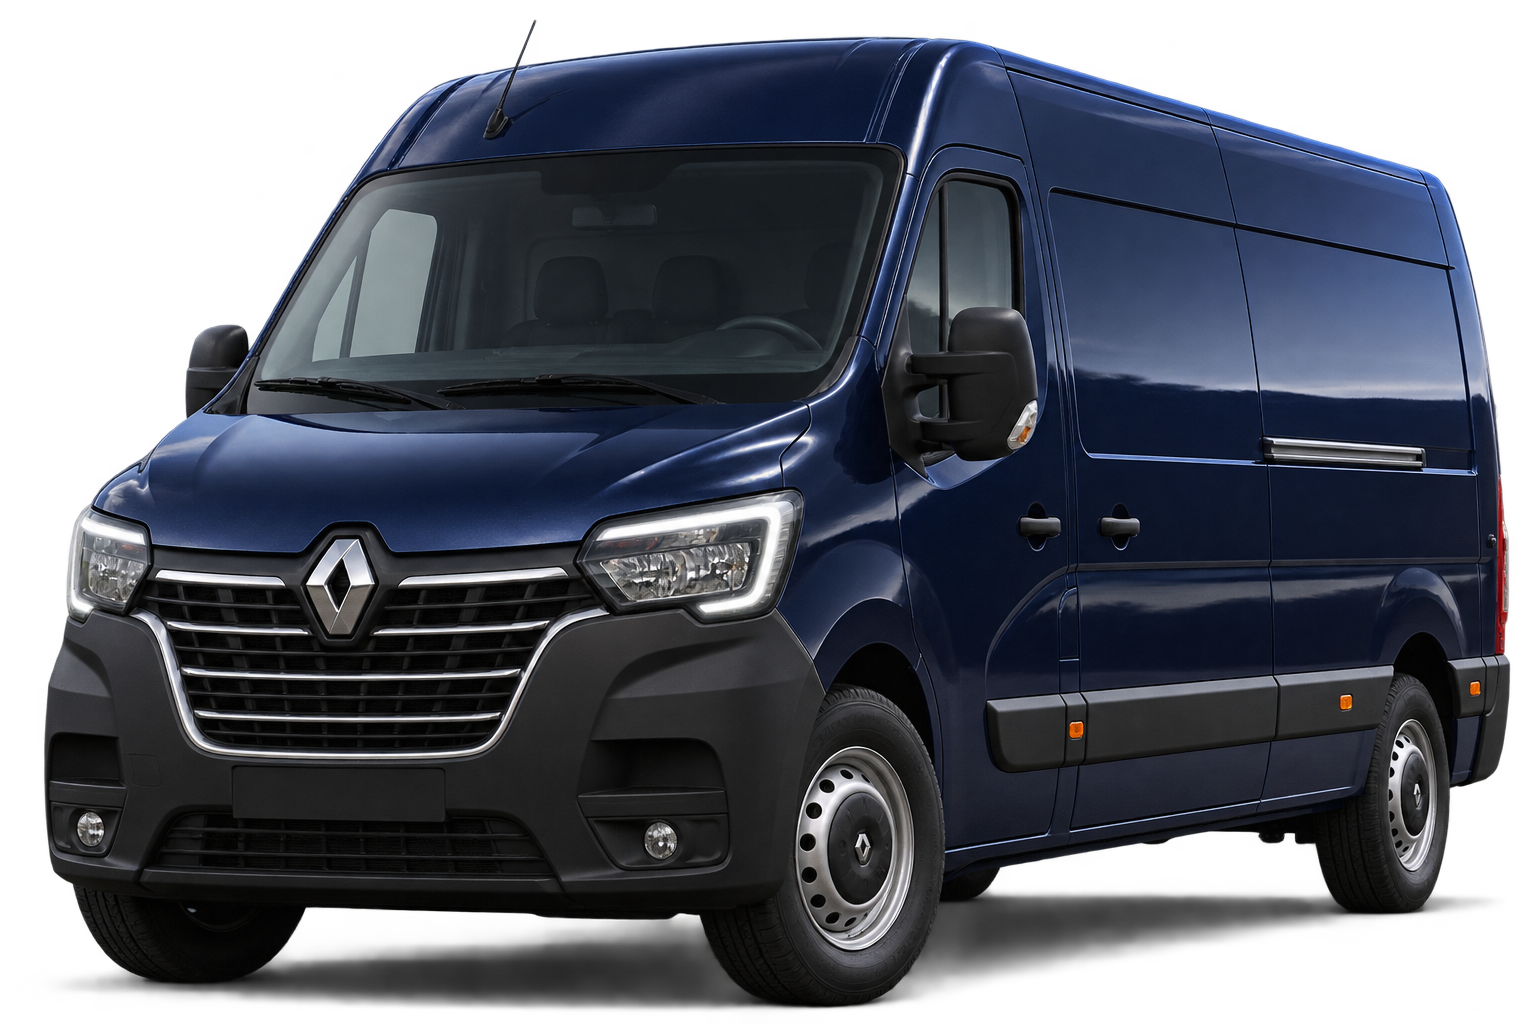
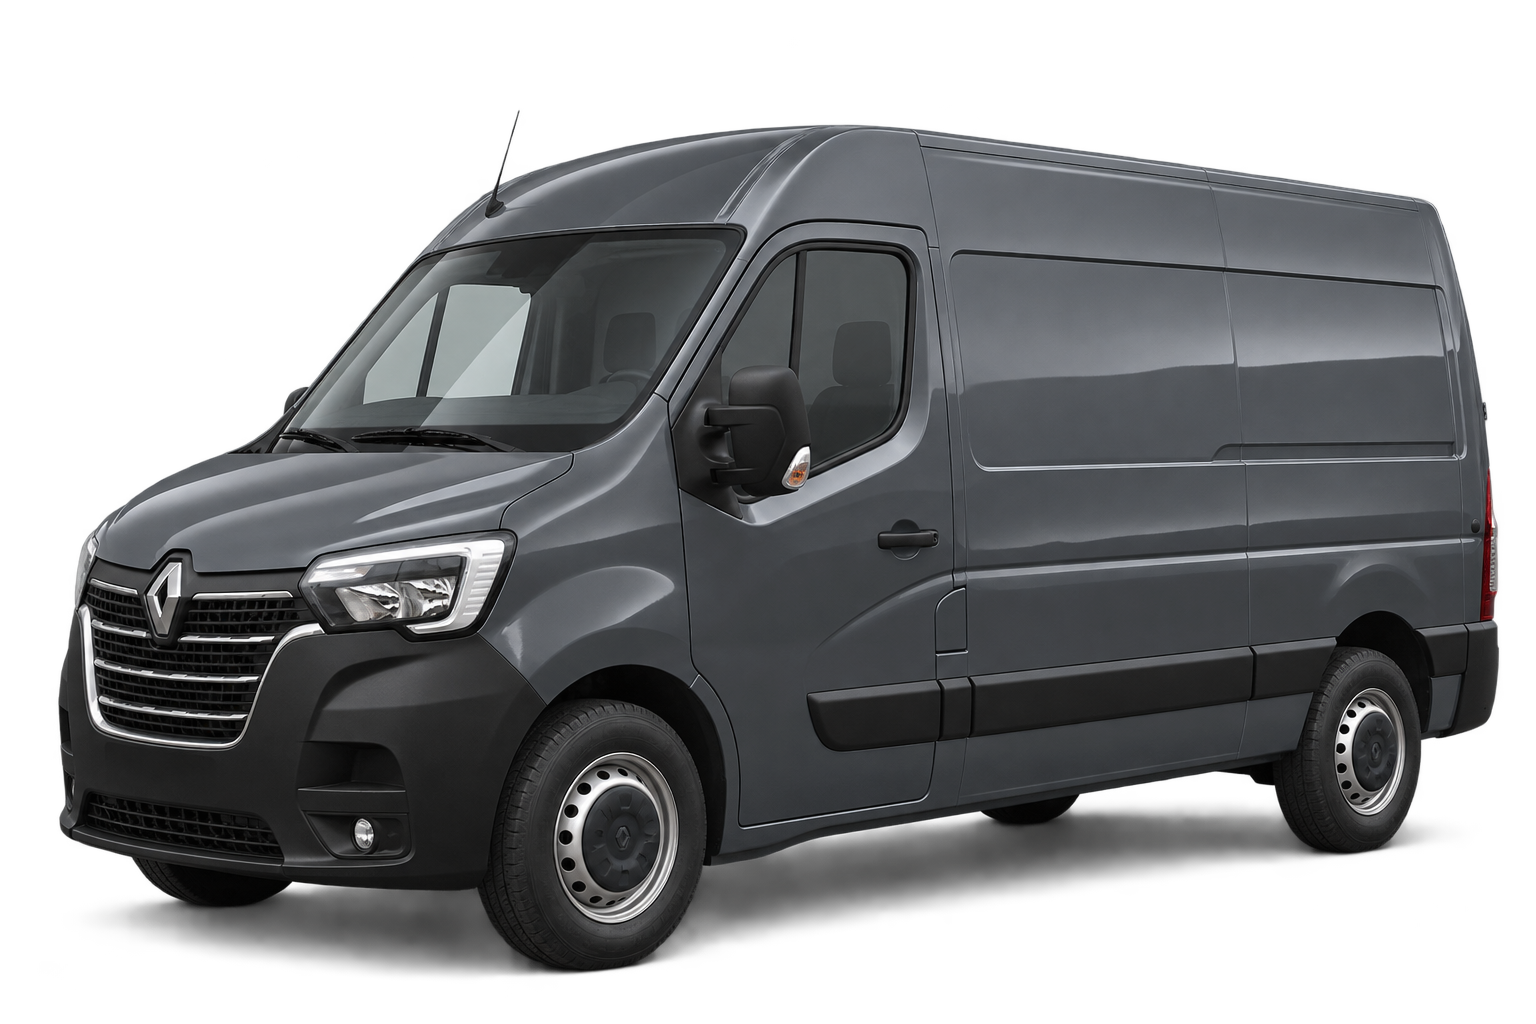
Fix road geometry and expand trip details

diff --git a/index.html b/index.html
@@ -28,12 +28,12 @@
         <a class="hero-cta" href="#calculator">Рассчитать поездку <span>↓</span></a>
         <div class="hero-proof"><div class="proof-icon">✳</div><div><b>50 ₽ за километр</b><small>Понятный тариф без сюрпризов</small></div></div>
       </div>
-      <div class="hero-art" aria-label="Тёмно-синий Renault Master 2020, 3D-визуализация">
+      <div class="hero-art" aria-label="Графитово-серый Renault Master 2020, 3D-визуализация">
         <div class="art-sun"></div><div class="art-orbit orbit-one"></div><div class="art-orbit orbit-two"></div>
         <div class="route-label label-a"><i></i> ОТКУДА</div><div class="route-label label-b"><i></i> КУДА</div>
         <div class="van-platform"><span></span></div>
-        <img class="van-illustration" src="assets/renault-master-2020-3d.png" alt="Тёмно-синий Renault Master 2020, цельнометаллический фургон" />
-        <div class="art-caption"><span class="caption-number">01</span><span>Renault Master<br />2020 · тёмно-синий</span><span class="caption-arrow">↗</span></div>
+        <img class="van-illustration" src="assets/renault-master-2020-3d.png" alt="Графитово-серый Renault Master 2020, цельнометаллический фургон" />
+        <div class="art-caption"><span class="caption-number">01</span><span>Renault Master<br />2020 · графитовый</span><span class="caption-arrow">↗</span></div>
       </div>
       <div class="hero-bottom"><span>ЛЮБОЕ РАССТОЯНИЕ</span><span class="bottom-dash"></span><span>ДО 2 ТОНН</span><span class="bottom-dash"></span><span>ПО ВСЕЙ РОССИИ</span></div>
     </section>
@@ -66,6 +66,26 @@
             <div class="helpers-stepper" aria-label="Количество грузчиков"><button type="button" id="helpersMinus" aria-label="Уменьшить количество грузчиков">−</button><output id="helpersCount" aria-live="polite">0</output><button type="button" id="helpersPlus" aria-label="Увеличить количество грузчиков">+</button></div>
             <div class="helpers-note" id="helpersNote">Не нужны</div>
           </div>
+          <details class="trip-details">
+            <summary>Добавить детали груза и адресов</summary>
+            <p class="trip-details-intro">Поля необязательные. Данные останутся в этом браузере; доплаты согласуются отдельно.</p>
+            <label class="detail-field detail-wide">Что перевозим?<input type="text" data-trip-detail="cargo" placeholder="Например, мебель и коробки" maxlength="100" /></label>
+            <div class="detail-grid">
+              <label class="detail-field">Вес, кг<input type="number" data-trip-detail="weight" min="0" max="2000" step="10" placeholder="до 2000" /></label>
+              <label class="detail-field">Объём, м³<input type="number" data-trip-detail="volume" min="0" max="30" step="0.5" placeholder="примерно" /></label>
+              <label class="detail-field">Этаж погрузки<input type="number" data-trip-detail="fromFloor" min="0" max="100" step="1" placeholder="0 — первый" /></label>
+              <label class="detail-field">Этаж выгрузки<input type="number" data-trip-detail="toFloor" min="0" max="100" step="1" placeholder="0 — первый" /></label>
+            </div>
+            <div class="detail-checks">
+              <label><input type="checkbox" data-trip-detail="fromLift" /> Есть лифт при погрузке</label>
+              <label><input type="checkbox" data-trip-detail="toLift" /> Есть лифт при выгрузке</label>
+            </div>
+            <label class="detail-field detail-wide">Желаемая дата поездки<input type="date" data-trip-detail="date" /></label>
+            <label class="detail-field detail-wide">Комментарий<textarea data-trip-detail="comment" maxlength="500" rows="3" placeholder="Хрупкие вещи, крупногабаритные предметы и другие пожелания"></textarea></label>
+            <div class="trip-summary-label">Детали для заявки</div>
+            <div class="trip-summary" id="detailsSummary" aria-live="polite">Груз, этажи и дата пока не указаны</div>
+            <button type="button" id="clearTripDetails" class="clear-details">Очистить детали</button>
+          </details>
           <a class="order-button" href="#calculator">Рассчитать маршрут <span>↗</span></a>
           <div class="estimate-badges"><span>✓ До 2 т</span><span>✓ Любое расстояние</span></div>
         </aside>
@@ -73,7 +93,7 @@
     </section>
 
     <section class="van-section" id="van">
-      <div class="van-photo-side"><div class="van-photo-frame"><div class="photo-tag">НАШ АВТОМОБИЛЬ <span>01 / 01</span></div><div class="van-photo-art"><div class="photo-sun"></div><img class="van-photo-3d" src="assets/renault-master-2020-3d.png" alt="3D-визуализация тёмно-синего Renault Master 2020" /><div class="photo-ground"></div></div></div></div>
+      <div class="van-photo-side"><div class="van-photo-frame"><div class="photo-tag">НАШ АВТОМОБИЛЬ <span>01 / 01</span></div><div class="van-photo-art"><div class="photo-sun"></div><img class="van-photo-3d" src="assets/renault-master-2020-3d.png" alt="3D-визуализация графитово-серого Renault Master 2020" /><div class="photo-ground"></div></div></div></div>
       <div class="van-copy"><div class="eyebrow"><span class="eyebrow-line"></span> ПРОСТРАНСТВО ДЛЯ ВАЖНОГО</div><h2 id="van-title">Всё поместится.<br /><span>И доедет.</span></h2><p>Цельнометаллический фургон Renault Master 2020 года — для переезда, мебели, техники и коммерческих грузов.</p><div class="spec-grid"><div class="spec"><b>до 2<span> т</span></b><small>грузоподъёмность</small></div><div class="spec"><b>3,7<span> м</span></b><small>длина кузова</small></div><div class="spec"><b>2,2<span> м</span></b><small>высота кузова</small></div><div class="spec"><b>1,7<span> м</span></b><small>ширина кузова</small></div></div><div class="van-note"><span>↳</span> Любое расстояние — от соседнего района до другого края России</div></div>
     </section>
 

diff --git a/app.js b/app.js
@@ -75,7 +75,9 @@
     if (token !== routeToken) return;
 
     const coords = `${points.from.lon},${points.from.lat};${points.to.lon},${points.to.lat}`;
-    const url = `https://routing.openstreetmap.de/routed-car/route/v1/driving/${coords}?overview=simplified&geometries=geojson&alternatives=false&steps=false`;
+    // Keep every road vertex from OSRM: the simplified overview can cut across
+    // bends and look like an arbitrary line at the map's current zoom.
+    const url = `https://routing.openstreetmap.de/routed-car/route/v1/driving/${coords}?overview=full&geometries=geojson&alternatives=false&steps=false`;
     lastRouteRequestAt = Date.now();
     try {
       const response = await fetch(url, { headers: { Accept: 'application/json' }, signal: AbortSignal.timeout(30000) });
@@ -87,7 +89,11 @@
 
       routeDistanceMeters = route.distance;
       const latlngs = route.geometry.coordinates.map(([lon, lat]) => [lat, lon]);
-      routeLine = L.polyline(latlngs, { color: '#879652', weight: 4, opacity: .95 }).addTo(map);
+      routeLine = L.polyline(latlngs, { color: '#657943', weight: 5, opacity: .98, smoothFactor: 0, lineCap: 'round', lineJoin: 'round' }).addTo(map);
+      for (const [key, waypoint] of [['from', result.waypoints?.[0]], ['to', result.waypoints?.[1]]]) {
+        const snapped = waypoint?.location;
+        if (snapped && markers[key]) markers[key].setLatLng([snapped[1], snapped[0]]);
+      }
       renderEstimate();
       setRouteStatus('Автомобильный маршрут построен', 'success');
     } catch {
@@ -260,6 +266,38 @@
   }
   document.querySelector('#helpersMinus').addEventListener('click', () => { helpers = Math.max(0, helpers - 1); renderHelpers(); });
   document.querySelector('#helpersPlus').addEventListener('click', () => { helpers = Math.min(6, helpers + 1); renderHelpers(); });
+
+  const tripFields = [...document.querySelectorAll('[data-trip-detail]')];
+  const detailsSummary = document.querySelector('#detailsSummary');
+  function renderTripDetails() {
+    const values = Object.fromEntries(tripFields.map(field => [field.dataset.tripDetail, field.type === 'checkbox' ? field.checked : field.value.trim()]));
+    const cargo = [values.cargo, values.weight ? `${values.weight} кг` : '', values.volume ? `${values.volume} м³` : ''].filter(Boolean).join(' · ');
+    const floors = [values.fromFloor ? `погрузка: ${values.fromFloor} эт.` : '', values.toFloor ? `выгрузка: ${values.toFloor} эт.` : ''].filter(Boolean).join(' · ');
+    const lifts = [values.fromLift ? 'лифт на погрузке' : '', values.toLift ? 'лифт на выгрузке' : ''].filter(Boolean).join(' · ');
+    const details = [cargo, floors, lifts, values.date ? `дата: ${new Intl.DateTimeFormat('ru-RU').format(new Date(`${values.date}T12:00:00`))}` : '', values.comment ? `комментарий: ${values.comment}` : ''].filter(Boolean);
+    detailsSummary.textContent = details.join(' · ') || 'Груз, этажи и дата пока не указаны';
+  }
+  for (const field of tripFields) {
+    const saved = localStorage.getItem(`cardrop-trip-${field.dataset.tripDetail}`);
+    if (saved !== null) field.type === 'checkbox' ? field.checked = saved === 'true' : field.value = saved;
+    field.addEventListener('input', () => {
+      localStorage.setItem(`cardrop-trip-${field.dataset.tripDetail}`, field.type === 'checkbox' ? String(field.checked) : field.value);
+      renderTripDetails();
+    });
+    field.addEventListener('change', () => {
+      localStorage.setItem(`cardrop-trip-${field.dataset.tripDetail}`, field.type === 'checkbox' ? String(field.checked) : field.value);
+      renderTripDetails();
+    });
+  }
+  document.querySelector('#clearTripDetails').addEventListener('click', () => {
+    for (const field of tripFields) {
+      localStorage.removeItem(`cardrop-trip-${field.dataset.tripDetail}`);
+      if (field.type === 'checkbox') field.checked = false;
+      else field.value = '';
+    }
+    renderTripDetails();
+  });
+  renderTripDetails();
   document.querySelector('.menu-toggle').addEventListener('click', () => document.querySelector('.nav').classList.toggle('open'));
   document.querySelectorAll('.nav a').forEach(link => link.addEventListener('click', () => document.querySelector('.nav').classList.remove('open')));
 

diff --git a/styles.css b/styles.css
@@ -24,5 +24,25 @@ body{font-size:16px}
 @media(max-width:950px){.van-illustration{width:116%;left:-8%}}
 @media(max-width:700px){.phone{font-size:11px}.hero-text{font-size:15px}.hero-cta{font-size:13px}.hero-proof b{font-size:12px}.hero-proof small{font-size:10px}.eyebrow{font-size:10px}.hero-bottom{font-size:8px}.section-heading h2,.steps-head h2{font-size:39px}.section-heading>p{font-size:13px}.map-hint{font-size:10px;line-height:1.45}.locate-button{font-size:10px}.map-footnote{font-size:9px}.map-legend{font-size:9px}.suggestion{font-size:13px}.estimate-distance{font-size:12px}.estimate-disclaimer{font-size:11px}.estimate-badges{font-size:10px}.van-photo-3d{animation-duration:8s}.van-copy>p{font-size:14px}.spec small{font-size:11px}.van-note{font-size:11px}.step h3{font-size:15px}.step p{font-size:11px}.closing-link{font-size:13px}footer{font-size:11px}.van-illustration{width:100%;left:0;bottom:30px;height:88%}}
 @media(prefers-reduced-motion:reduce){.van-illustration,.van-photo-3d{animation:none}}
+.van-photo-art{background:radial-gradient(ellipse at 75% 22%,#747b7e,#3e4549 72%)}.photo-ground{background:linear-gradient(0deg,#252a2d,#252a2d00)}
+.trip-details{position:relative;z-index:1;margin-top:15px;border-top:1px solid #ffffff25;border-bottom:1px solid #ffffff25;color:#f4f2e9}
+.trip-details>summary{position:relative;padding:15px 24px 15px 0;list-style:none;cursor:pointer;font-size:13px;font-weight:700}
+.trip-details>summary::-webkit-details-marker{display:none}
+.trip-details>summary:after{content:'+';position:absolute;right:0;top:10px;width:24px;height:24px;border:1px solid #ffffff55;border-radius:50%;display:grid;place-items:center;color:var(--yellow);font-size:17px;line-height:1}
+.trip-details[open]>summary:after{content:'−'}
+.trip-details-intro{margin:0 0 13px;color:#c3c9bc;font-size:11px;line-height:1.5}
+.detail-grid{display:grid;grid-template-columns:1fr 1fr;gap:10px 12px}
+.detail-field{display:flex;flex-direction:column;gap:6px;margin:10px 0;color:#d4dacd;font-size:11px;line-height:1.35}
+.detail-field input,.detail-field textarea{width:100%;min-width:0;border:1px solid #ffffff2e;background:#ffffff0b;border-radius:2px;padding:10px;color:#fff;font:500 13px var(--sans);outline:none}
+.detail-field input:focus,.detail-field textarea:focus{border-color:#b9cc72;box-shadow:0 0 0 2px #b9cc7220}
+.detail-field input::placeholder,.detail-field textarea::placeholder{color:#9da698}
+.detail-field textarea{resize:vertical;min-height:74px}
+.detail-checks{display:grid;gap:9px;margin:10px 0;color:#d4dacd;font-size:11px}
+.detail-checks label{display:flex;align-items:center;gap:8px}
+.detail-checks input{accent-color:#b9cc72;width:15px;height:15px}
+.trip-summary-label{margin-top:12px;color:#b9c0b1;font-size:10px;letter-spacing:.1em;text-transform:uppercase}
+.trip-summary{margin-top:6px;color:#fff;font-size:12px;line-height:1.6;overflow-wrap:anywhere}
+.clear-details{margin:11px 0 14px;border:0;background:none;padding:0;color:#f2ca5c;font:600 11px var(--sans);cursor:pointer;text-decoration:underline;text-underline-offset:3px}
+@media(max-width:700px){.trip-details>summary{font-size:12px}.trip-details-intro{font-size:10px}.detail-grid{gap:8px}.detail-field{font-size:10px}.trip-summary{font-size:11px}}
 
 

diff --git a/README.md b/README.md
@@ -1,21 +1,23 @@
 # carDrop
 
-Конфигуратор перевозки вещей по России на тёмно-синем Renault Master 2020.
+Конфигуратор перевозки вещей по России на Renault Master 2020 в графитовом цвете.
 
 ## Возможности
 
-- Выбор адресов отправления и доставки по подсказкам Photon и Nominatim или по карте.
-- Автомобильный маршрут и примерная цена по тарифу 50 ₽/км.
-- Настройка числа грузчиков от 0 до 6; стоимость их работы согласуется отдельно.
-- Renault Master, цельнометаллический фургон: до 2 т, кузов 3,7 × 2,2 × 1,7 м.
-- Монохромная карта с выделенными границами России и зумом колёсиком мыши.
+- Выбор точных адресов отправления и доставки с подсказками Photon и Nominatim.
+- Дорожный маршрут OSRM с полной геометрией без упрощения линии.
+- Примерная стоимость по тарифу 50 ₽/км.
+- Настройка числа грузчиков от 0 до 6.
+- Дополнительные сведения о грузе, весе, объёме, этажах, лифте, дате и комментарии; сохраняются в браузере.
+- Монохромная карта России с масштабированием колесиком мыши.
+- Renault Master 2020, цельнометаллический фургон: до 2 т, кузов 3,7 × 2,2 × 1,7 м.
 
 ## Запуск
 
 Откройте `index.html` через любой статический HTTP-сервер. Карта, геокодирование и маршрутизация требуют подключения к интернету.
 
-Расстояние и геометрия маршрута запрашиваются у FOSSGIS OSRM на данных OpenStreetMap. Поиск адресов использует Photon и Nominatim. Публичные сервисы предназначены для умеренной нагрузки; массовое использование потребует собственного сервиса.
+Маршрут запрашивается у FOSSGIS OSRM на данных OpenStreetMap. Для рисования используется полная, несглаженная геометрия маршрута. Поиск адресов использует Photon и Nominatim; публичные сервисы подходят для умеренной нагрузки.
 
-Расчётная цена не учитывает автоматически ограничения дорог по высоте и массе фургона. Итоговые адреса, условия загрузки и стоимость грузчиков нужно согласовать отдельно.
+Расчётная цена не учитывает ограничения дорог по высоте и массе фургона. Итоговые адреса, условия загрузки и стоимость грузчиков согласуются отдельно.
 
 Границы России в `russia.geojson` основаны на Natural Earth. Подложка карты © OpenStreetMap.
